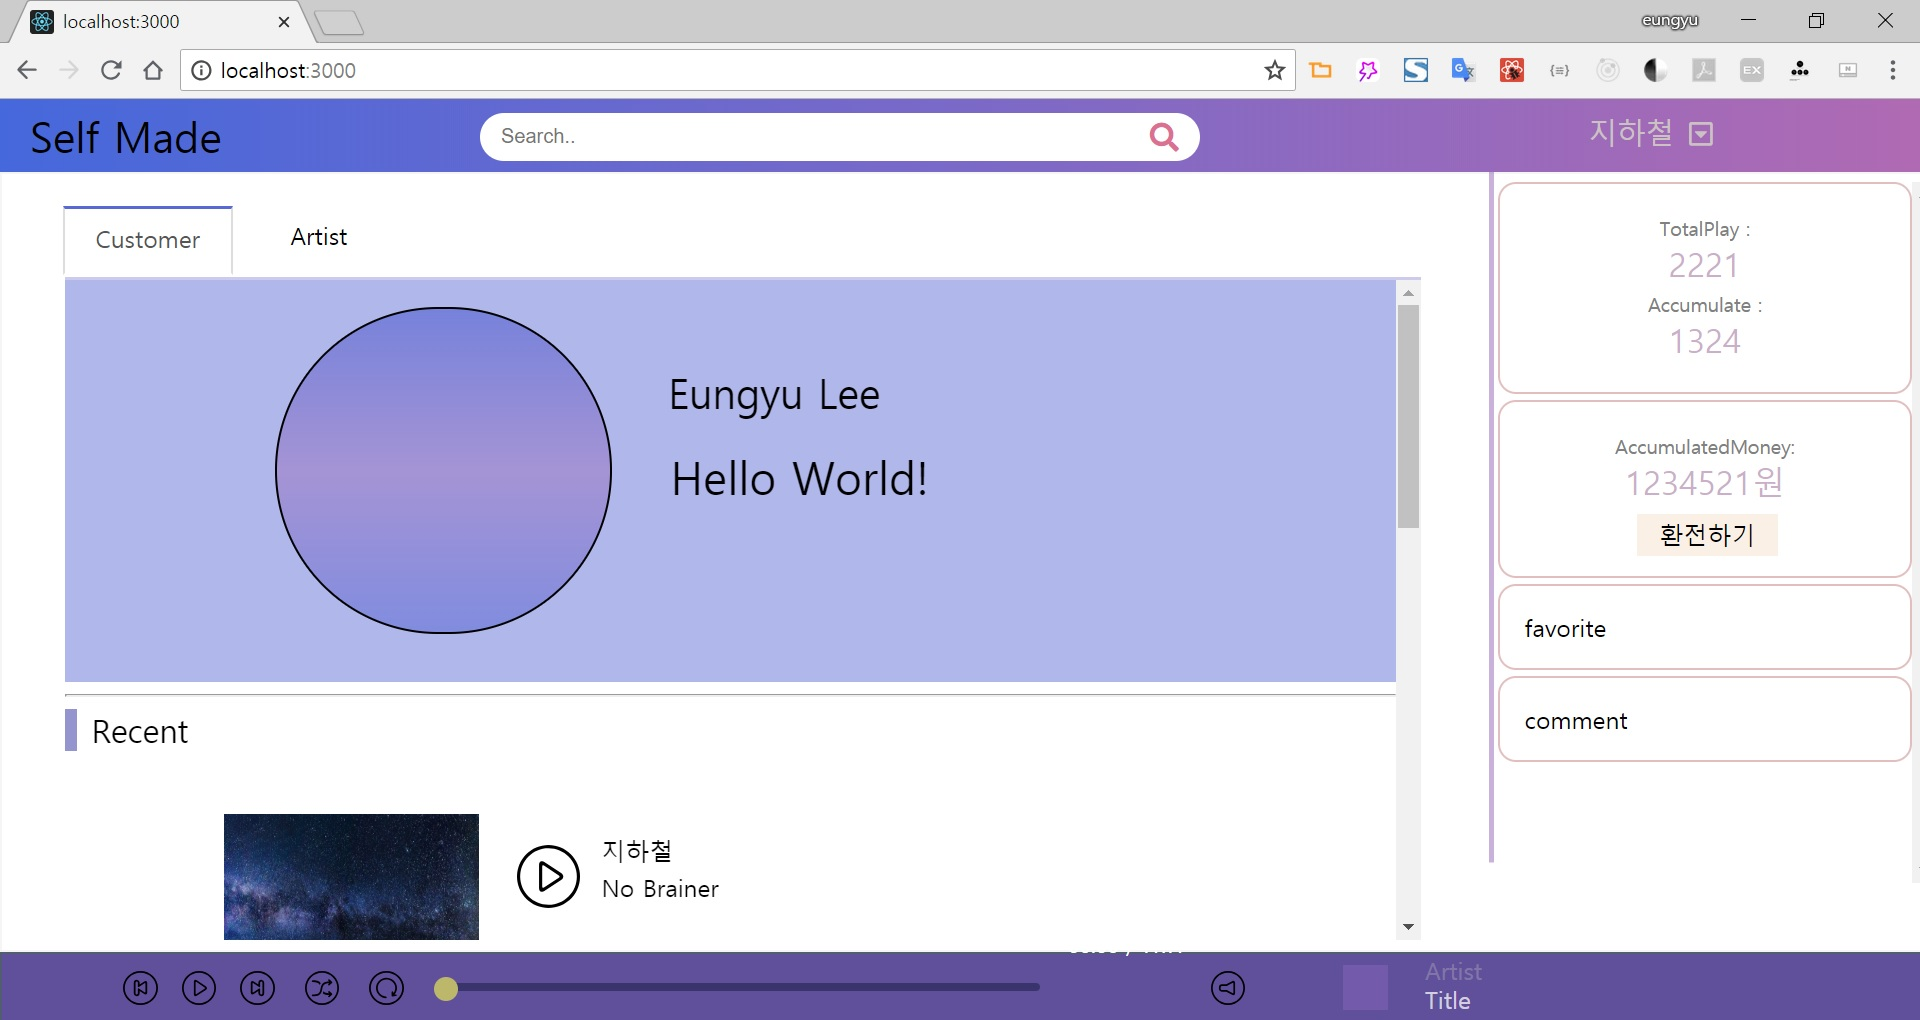
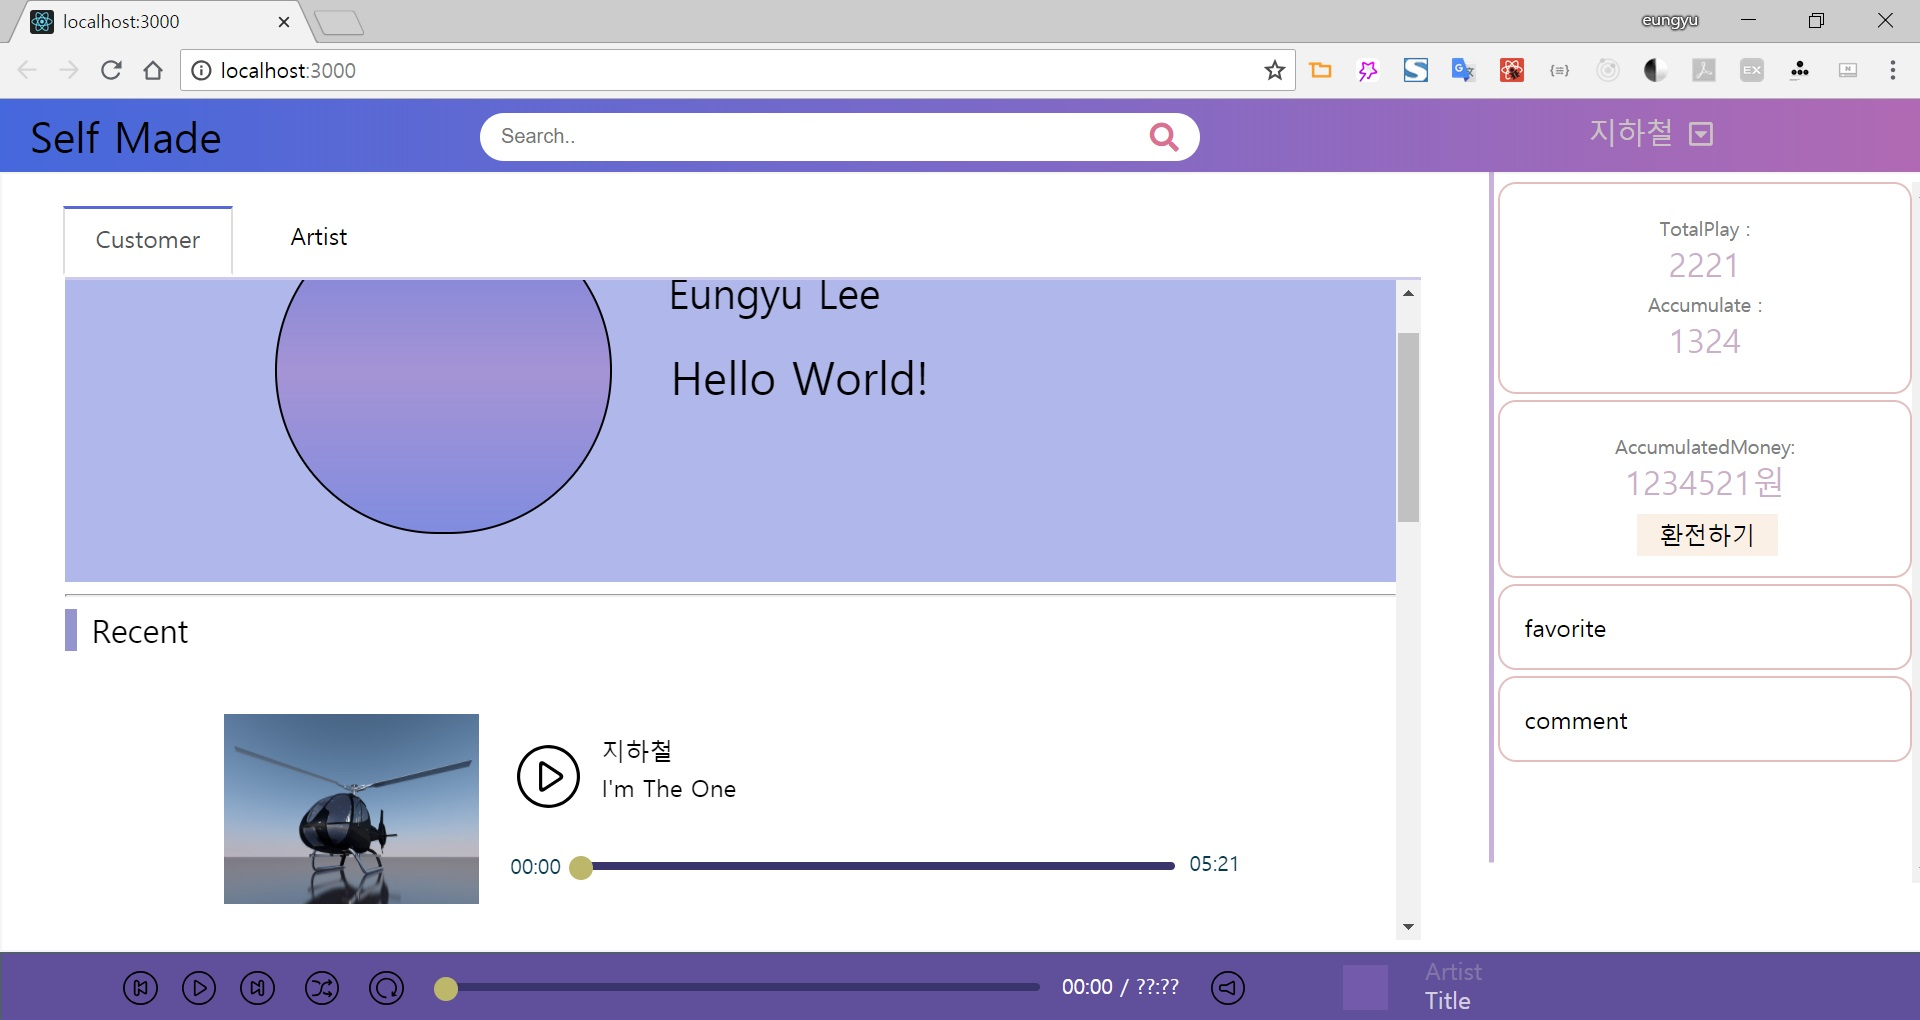
modify readme3

diff --git a/src/components/FooterAudio/FooterAudio.js b/src/components/FooterAudio/FooterAudio.js
@@ -134,10 +134,10 @@ export default class FooterAudio extends React.Component {
                                 <div className="artistName">{currentSong ? currentSong.artist : "Artist"}</div>
                                 <div className="songTitle">{currentSong ? currentSong.title : "Title"}</div>
                             </div>
-                        </div>
+                            <div className="time">
+                                {formatTime(currentTime)} / {formatTime(totalTime)}
+                            </div>
                     </div>
-                    <div className="time">
-                        {formatTime(currentTime)} / {formatTime(totalTime)}
                     </div>
                     <audio ref = {(ref) => this._player = ref} controls autoPlay={this.state.is_playing}>
                     </audio>

diff --git a/src/components/Profile/Profile.css b/src/components/Profile/Profile.css
@@ -6,13 +6,13 @@
 
 .profileBodyContainer {
     width: 100%;
-    height: 491px;
+    height: 518px;
     position: absolute;
     bottom: 47px;
     border: 1px solid whitesmoke;
     border-radius: -41px;
     background: white;
-    padding: 10px, 12px;
+    z-index: 2;
 }
 
 .userImg{

diff --git a/src/components/FooterAudio/FooterAudio.css b/src/components/FooterAudio/FooterAudio.css
@@ -157,9 +157,9 @@
 }
 
 .time {
-    position: absolute;
-    right: 479px;
-    top: 537px;
+    position: relative;
+    top: -40px;
+    left: 696px;
     width: 100px;
     color: white;
     font-size: 14px;

diff --git a/src/components/PlayerHome/PlayerHome.css b/src/components/PlayerHome/PlayerHome.css
@@ -5,7 +5,7 @@
 
 .tabContainer {
     width: 100%;
-    height: 491px;
+    height: 518px;
     position: absolute;
     bottom: 47px;
     border: 1px solid whitesmoke;
